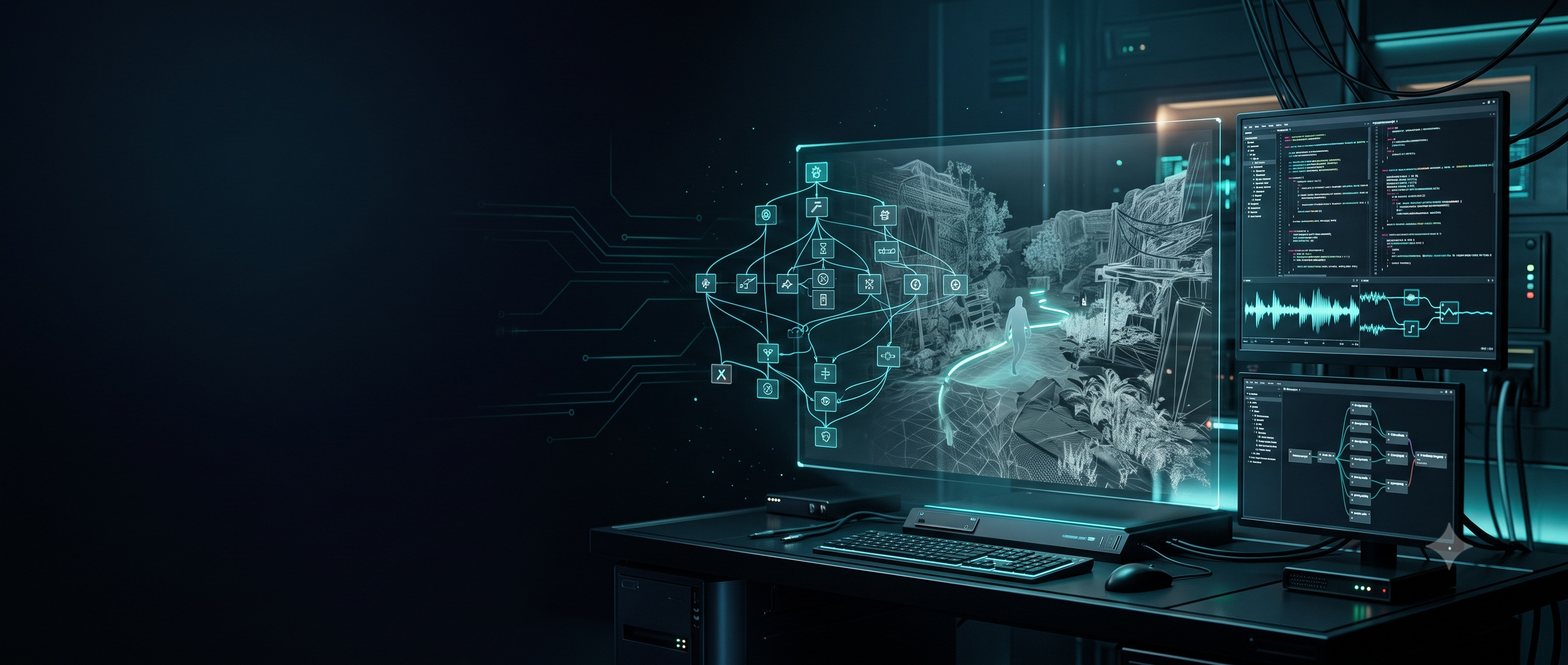
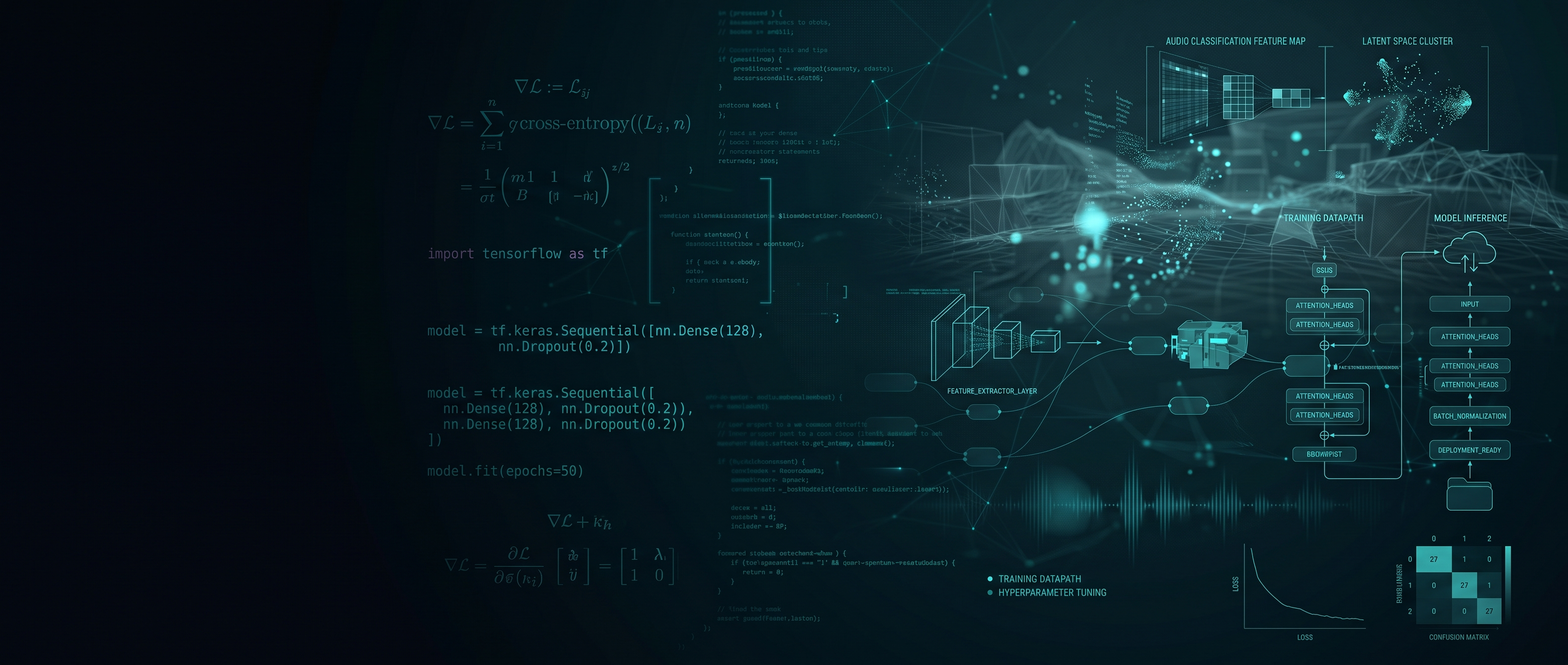
Updated dissertation info and changed hero image.

diff --git a/index.md b/index.md
@@ -12,7 +12,7 @@ header:
       url: "#projects"
     - label: "Contact"
       url: "#contact"
-excerpt: "AI Engineer / Machine Learning Engineer. Specialising in Python, PyTorch, Hugging Face, NLP pipelines, LLM fine-tuning, RAG, and AI Safety."
+excerpt: "AI Engineer / Machine Learning Engineer. Specialising in Python, PyTorch, Hugging Face, NLP pipelines, LLM fine-tuning, and AI Safety."
 ---
 
 ## Featured Work {#projects}
@@ -33,31 +33,38 @@ Projects demonstrating AI engineering, machine learning pipelines, LLM integrati
         </div>
         <div class="slide">
 <pre class="diagram">
-[Creation Kit Engine: CompanionLLMV01.esp]
+[Creation Kit Mod: CompanionLLMV01.esp]
         ↓
-[Papyrus Hook: In-Game Event Trigger]
-        ↓ (Writes request.json via JContainers)
-[Python LLM Bridge & Orchestrator]
-    ├── [data_director.py]         → Session Memory & RAG Retrieval
-    ├── [llm_payload_builder.py]   → Profile & State Prompt Injection
-    ├── [KoboldCpp / OpenWebUI]    → Local LLM Inference Execution
-    └── [llm_reply_processor.py]   → JSON Sanitisation & Policy Check
-        ↓ (Writes response.json via JContainers)
-[Game Quest Engine: MMJ_Script]
+[Papyrus In-Game Hook: MMJ_TavernWitnessChatLauncher]
+        ↓ (Writes request.json via JContainers / PapyrusUtil)
+        ↓
+[Python Orchestrator: bridge.py]
+    ├── [data_director.py]         → IO, Session Memory, & Logging 
+    ├── [llm_payload_builder.py]   → Profile & Quest State Prompt Injection
+    ├── [Local Inference Engine]   → Gemma-4-E2B (Fine-Tuned SLM Execution)
+    └── [llm_reply_processor.py]   → JSON Sanitisation & Quest Policy Validation
+        ↓
+        ↓ (Writes response.json via JContainers / PapyrusUtil)
+[Skyrim Quest Engine: MMJ_PoisonedMeadQuestScript]
 </pre>
         </div>
         <div class="slide">
 {% highlight python %}
-# Sent with prompt payload to define output contract for local LLM
-def build_output_contract() -> dict:
+#This is sent with the main prompt to give a template for the llm's reply
+def build_output_contract() -> Dict[str, Any]:
+    """
+    Defines the strict JSON schema contract for the LLM output.
+    The response must strictly adhere to this structure to pass 
+    the Papyrus state-machine validation layer.
+    """
     return {
-        "schema_version": OUTPUT_SCHEMA_VERSION,
-        "dialogue": "Short player-facing NPC dialogue",
-        "player_intent": "One allowed intent",
-        "topic": "One allowed topic",
-        "policy_id": "One policy available to this NPC",
-        "response_type": "One allowed response type",
-        "clue_claims": ["Zero or more clue IDs"],
+        "schema_version": "1.0",
+        "dialogue": "Short, 1-3 sentence player-facing NPC dialogue.",
+        "player_intent": "Selected from allowed intents (e.g., 'ask_for_information').",
+        "topic": "Selected from allowed topics (e.g., 'suspect', 'weapon').",
+        "policy_id": "One specific state-machine policy available to this NPC.",
+        "response_type": "Must strictly align with the chosen policy_id.",
+        "clue_revealed": ["Zero or more validated clue IDs (e.g., 'C1')"],
         "action_request": None,
     }
 {% endhighlight %}
@@ -67,13 +74,18 @@ def build_output_contract() -> dict:
   </div>
   <div class="project-card__content">
     <h3>MSc Thesis — Safe AI Companion Systems (Skyrim LLM Bridge)</h3>
-    <p class="project-card__meta"><strong>Python, RAG, Local LLMs, JSON APIs, Prompt Engineering, C++</strong></p>
-    <p>MSc thesis prototype establishing a safe, local LLM pipeline with retrieval-augmented generation (RAG).</p>
+    <p class="project-card__meta"><strong>Python, Fine-Tunning, Local LLMs, JSON APIs, Prompt Engineering, C++</strong></p>
+    <p>MSc thesis prototype establishing a safe, Fine-tunned local LLM pipeline.</p>
     <ul>
-      <li>Built a custom local AI companion pipeline using <strong>Python</strong>, <strong>RAG-style context retrieval</strong>, and structured <strong>JSON request/response</strong> interfaces.</li>
-      <li>Engineered a local LLM orchestration bridge with bounded context windows, safety constraints, and prompt-engineering guardrails.</li>
-      <li>Evaluated the AI agent against branching-dialogue baselines, measuring interaction quality, latency, safety, and reliability metrics.</li>
+      <li>Engineered a custom Skyrim AI mod using the <strong>Creation Kit</strong>, bridging deterministic <strong>Papyrus</strong> scripts with generative AI via a custom <strong>Python LLM orchestrator</strong>.</li>
+      <li>Designed a secure inference pipeline with strict bounded context, state-machine validation, and automated fallback logic to prevent hallucinated quest flags.</li>
+      <li>Executed rigorous automated benchmarking to evaluate the system against branching-dialogue baselines, measuring state routing accuracy, edge-inference latency, and strict JSON compliance.</li>
+      <li><strong>Fine-tuned a Gemma 4 (E2B)</strong> model via QLoRA (4-bit quantization) to perfectly couple immersive, lore-accurate Skyrim dialogue with precise, game-ready JSON action states (on AMD RX 6900).</li>
     </ul>
+    <div class="project-links">
+      <a href="https://github.com/devPirate01/SkyrimLLMBridge" class="btn btn--primary" target="_blank" rel="noopener noreferrer">View on GitHub →</a>
+      <a href="#" class="btn btn--inverse" onclick="return false;">Nexus Mod (in progress)</a>
+    </div>
   </div>
 </div>
 
